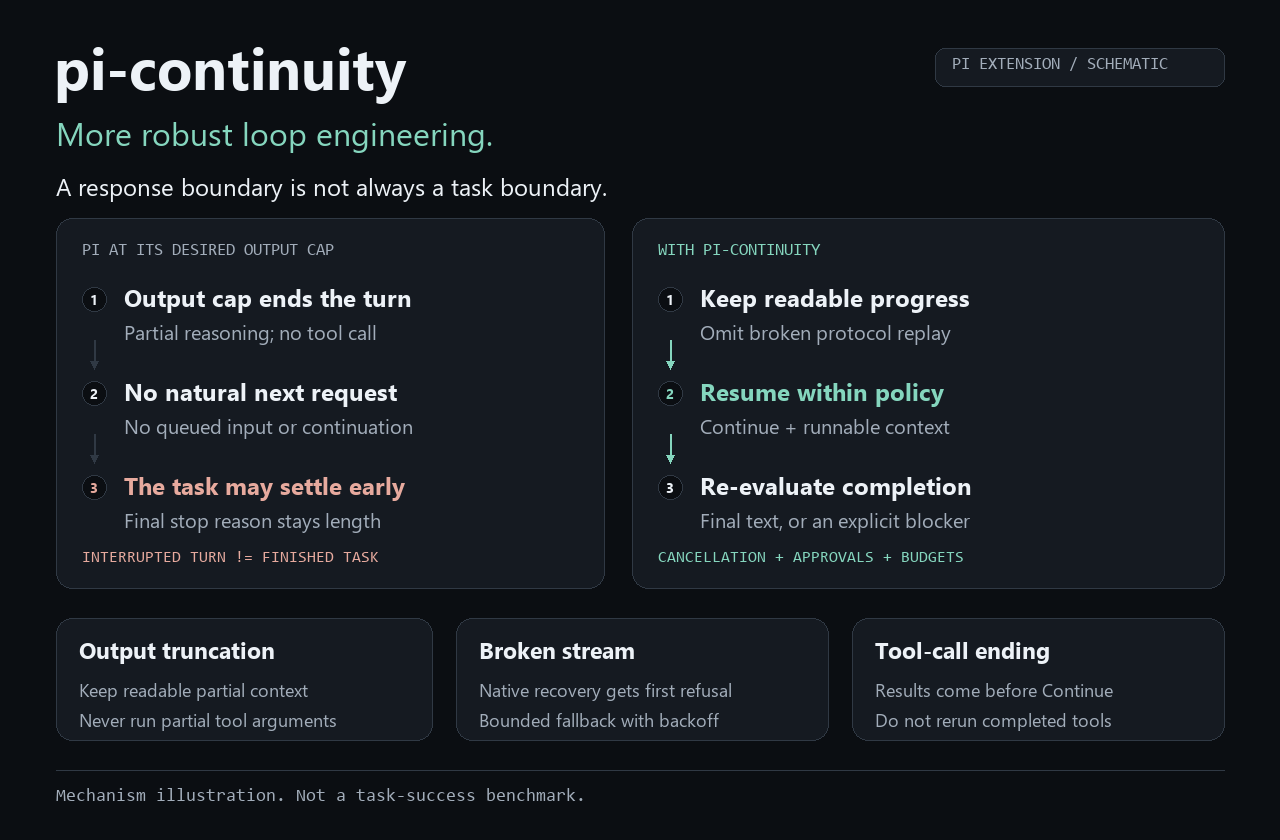
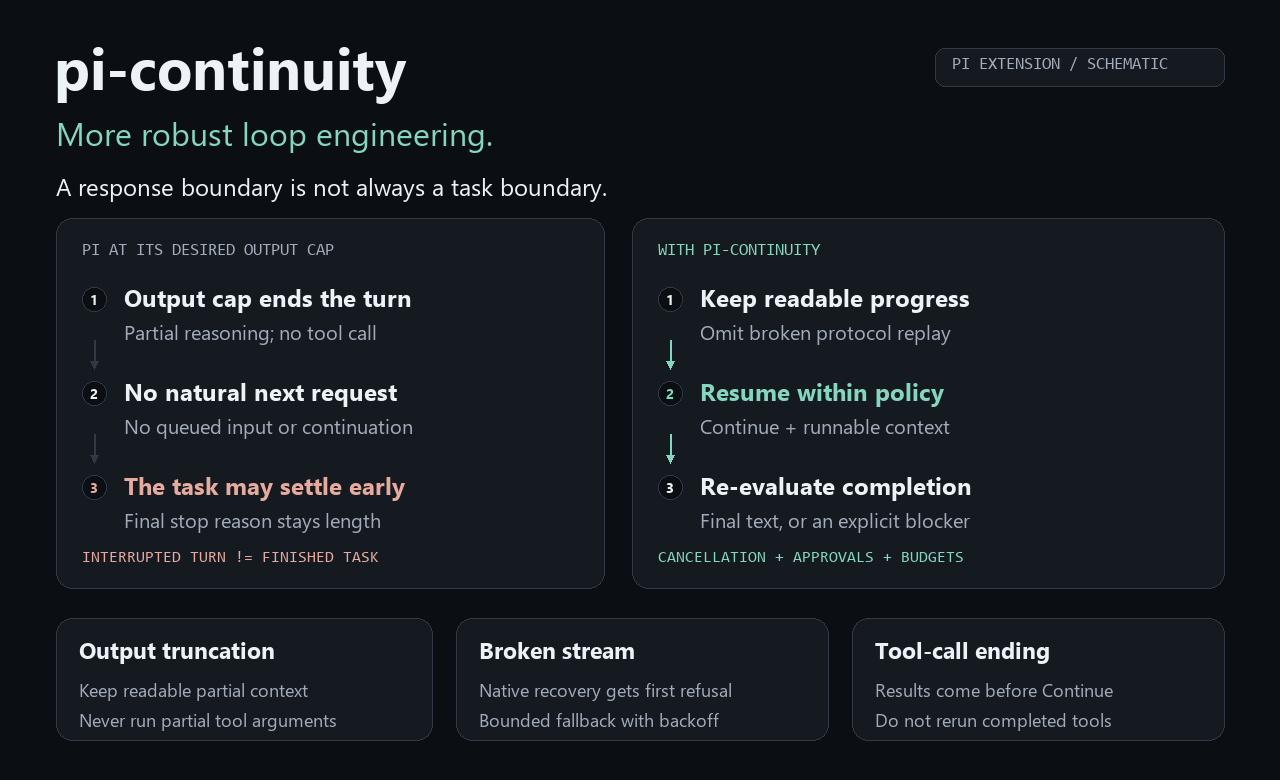
docs: remove hero footer and duplicate captions [skip ci]

diff --git a/scripts/render-assets.py b/scripts/render-assets.py
@@ -105,9 +105,7 @@ def hero():
         text(draw, (left + 23, 634), title, 23, kind="bold")
         text(draw, (left + 23, 677), line1, 18, MUTED)
         text(draw, (left + 23, 707), line2, 18, MUTED)
-    draw.line((56, 770, 1224, 770), fill=BORDER, width=1)
-    text(draw, (56, 787), "Mechanism illustration. Not a task-success benchmark.", 18, MUTED, "mono")
-    return image
+    return image.crop((0, 0, W, 780))
 
 
 # Hand-authored design paths, not captured execution logs or new experiments.

diff --git a/docs/assets.md b/docs/assets.md
@@ -37,6 +37,6 @@ npm run assets
 
 Pillow draws the PNG/GIF. `imageio-ffmpeg` includes a local FFmpeg executable for MP4 encoding; rendering does not download a binary. An existing FFmpeg can instead be selected through `FFMPEG` or the executable search path. Font discovery supports Windows, Linux, and macOS. Override `ASSET_SANS_FONT`, `ASSET_BOLD_FONT`, and `ASSET_MONO_FONT` with local font paths if needed. Output pixels can differ by platform fonts; this is not a measurement fixture.
 
-The PNG is 1280 × 840. The animation advances through two, four, and six policy stages in each of three scenarios. Frames pause deliberately; they are not latency measurements. The MP4 has no audio.
+The PNG is 1280 × 780. The animation advances through two, four, and six policy stages in each of three scenarios. Frames pause deliberately; they are not latency measurements. The MP4 has no audio.
 
 README links and `pi.image` / `pi.video` refer to GitHub-hosted assets. They are not needed by the runtime extension. Keep the explicit illustration label when reusing these media, and do not describe them as live Pi recordings or benchmarks.
